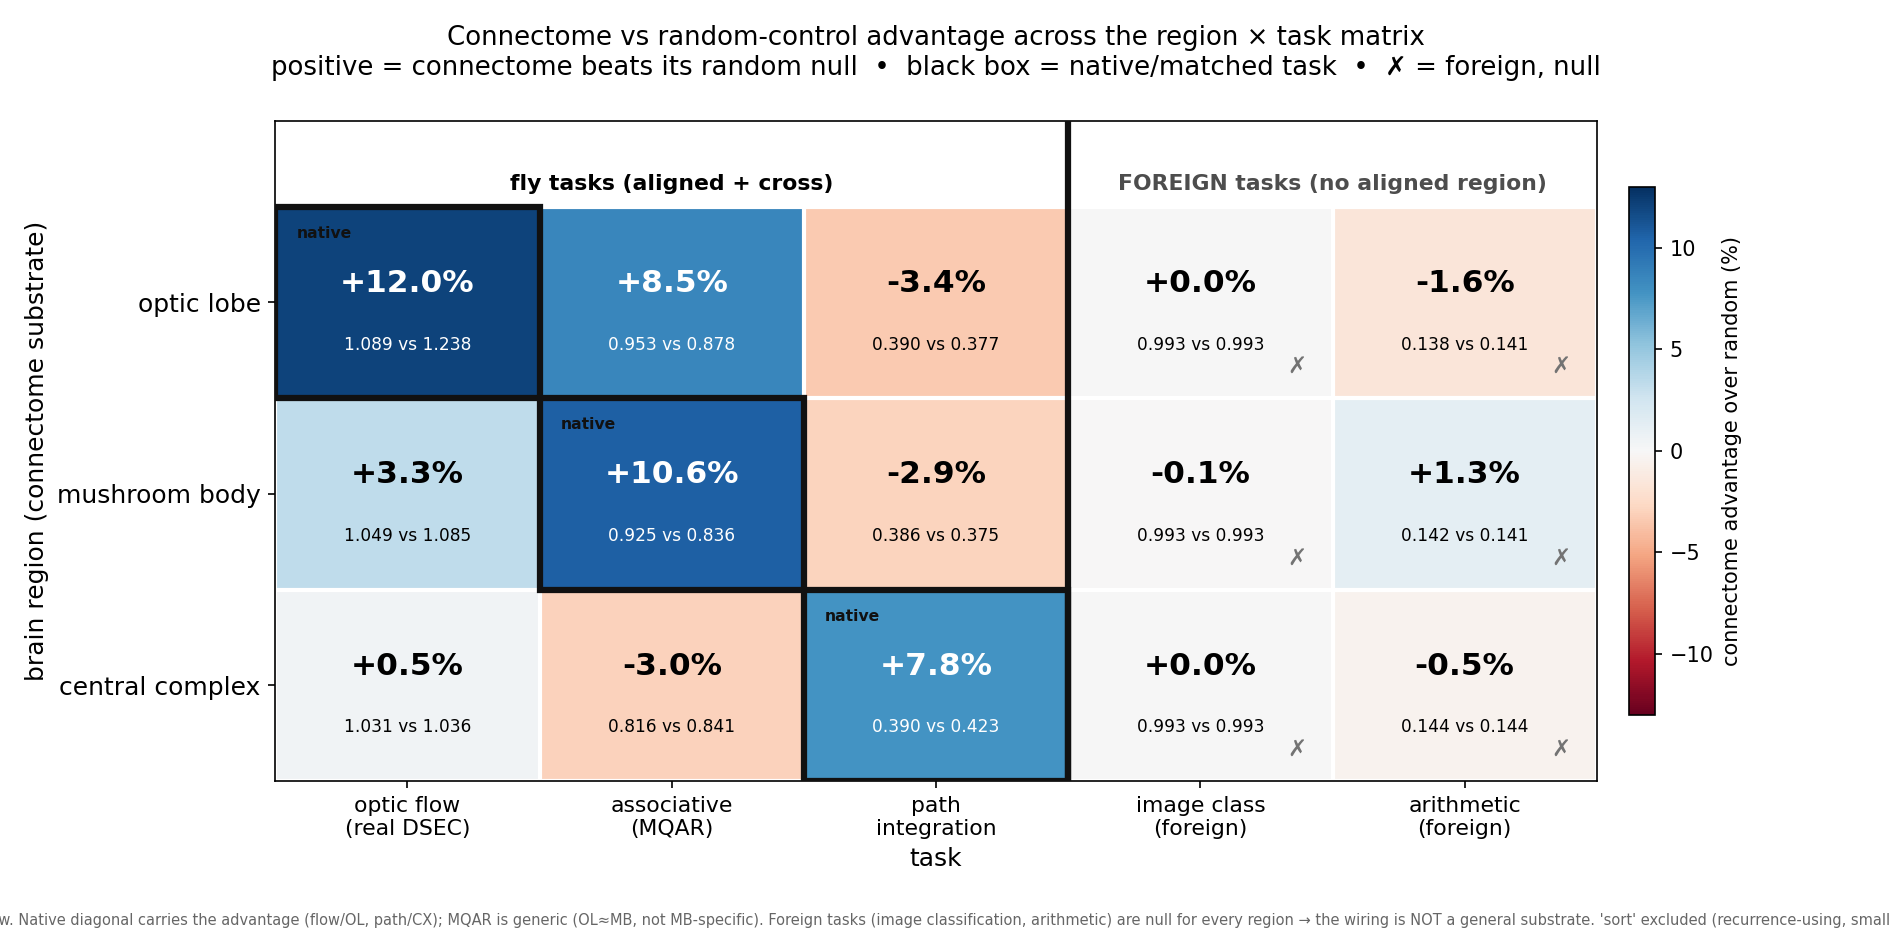
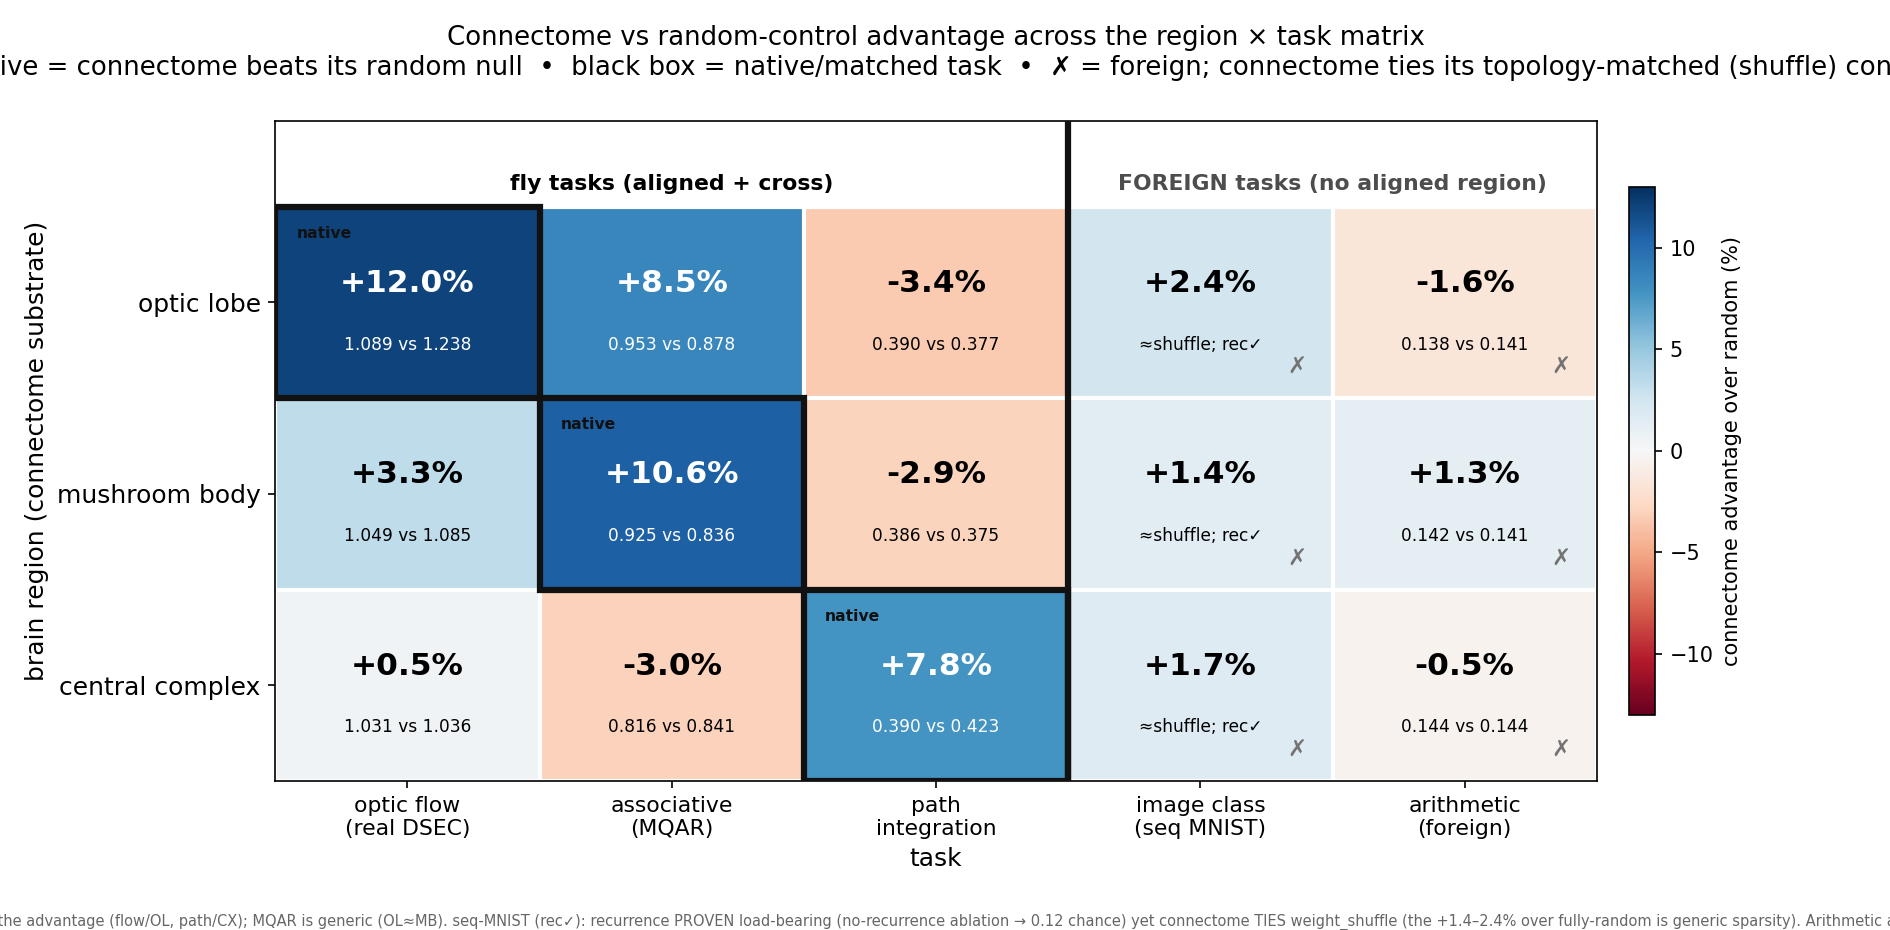
Heatmap: replace circular static-class cell with real sequential MNIST
seq-MNIST (28 rows fed one/step, digit read out after the last row) makes W_rec the sole
path -> recurrence PROVEN load-bearing (no_recurrence ablation collapses 0.96->0.12 chance;
wrec_grad 0.27-0.42). Connectome still TIES weight_shuffle in all 3 regions (MB/OL/CX),
edging only fully-random by +1.4-2.4% (generic structured sparsity). The non-circular foreign
null: real image classification, recurrence used, connectome's specific wiring buys nothing.

diff --git a/scripts/plot_region_task_heatmap.py b/scripts/plot_region_task_heatmap.py
@@ -17,7 +17,7 @@ OUT.mkdir(parents=True, exist_ok=True)
 
 REGIONS = ["optic lobe", "mushroom body", "central complex"]
 TASKS = ["optic flow\n(real DSEC)", "associative\n(MQAR)", "path\nintegration",
-         "image class\n(foreign)", "arithmetic\n(foreign)"]
+         "image class\n(seq MNIST)", "arithmetic\n(foreign)"]
 N_FLY = 3  # first 3 columns are fly tasks; the rest are foreign
 
 # (row=region, col): adv_pct, raw "conn vs rand", is_native
@@ -26,17 +26,17 @@ CELLS = {
     ("optic lobe", 0):    (12.0, "1.089 vs 1.238", True),   # native flow (real DSEC)
     ("optic lobe", 1):    (8.5,  "0.953 vs 0.878", False),  # OL->MQAR: off-diagonal yet ~= MB native (generic)
     ("optic lobe", 2):    (-3.4, "0.390 vs 0.377", False),
-    ("optic lobe", 3):    (0.0,  "0.993 vs 0.993", False),  # foreign: image classification
+    ("optic lobe", 3):    (2.4,  "≈shuffle; rec✓", False),   # seq-MNIST: ties shuffle (0.949/0.954); no_recur→0.12
     ("optic lobe", 4):    (-1.6, "0.138 vs 0.141", False),  # foreign: arithmetic (at chance)
     ("mushroom body", 0): (3.3,  "1.049 vs 1.085", False),
     ("mushroom body", 1): (10.6, "0.925 vs 0.836", True),   # native MQAR (but generic: OL ties it)
     ("mushroom body", 2): (-2.9, "0.386 vs 0.375", False),
-    ("mushroom body", 3): (-0.1, "0.993 vs 0.993", False),
+    ("mushroom body", 3): (1.4,  "≈shuffle; rec✓", False),  # seq-MNIST: ties shuffle (0.961/0.964); no_recur→0.12
     ("mushroom body", 4): (1.3,  "0.142 vs 0.141", False),
     ("central complex", 0): (0.5, "1.031 vs 1.036", False),
     ("central complex", 1): (-3.0, "0.816 vs 0.841", False),
     ("central complex", 2): (7.8, "0.390 vs 0.423", True),  # native path integration
-    ("central complex", 3): (0.0, "0.993 vs 0.993", False),
+    ("central complex", 3): (1.7, "≈shuffle; rec✓", False),  # seq-MNIST: ties shuffle (0.971/0.970); no_recur→0.12
     ("central complex", 4): (-0.5, "0.144 vs 0.144", False),
 }
 
@@ -73,14 +73,14 @@ ax.grid(which="minor", color="white", linewidth=2); ax.tick_params(which="minor"
 ax.set_xlabel("task", fontsize=12); ax.set_ylabel("brain region (connectome substrate)", fontsize=12)
 ax.set_ylim(nR - 0.5, -0.95)
 ax.set_title("Connectome vs random-control advantage across the region × task matrix\n"
-             "positive = connectome beats its random null  •  black box = native/matched task  •  ✗ = foreign, null",
+             "positive = connectome beats its random null  •  black box = native/matched task  •  ✗ = foreign; connectome ties its topology-matched (shuffle) control",
              fontsize=12.5, pad=22)
 cbar = fig.colorbar(im, ax=ax, shrink=0.8, pad=0.02)
 cbar.set_label("connectome advantage over random (%)", fontsize=10)
 fig.text(0.5, 0.005,
-         "Flow = REAL DSEC event-camera flow. Native diagonal carries the advantage (flow/OL, path/CX); MQAR is generic (OL≈MB, not MB-specific). "
-         "Foreign tasks (image classification, arithmetic) are null for every region → the wiring is NOT a general substrate. "
-         "'sort' excluded (recurrence-using, small generic residual). Flow/path 1 seed.",
+         "Flow = REAL DSEC event-camera flow. Native diagonal carries the advantage (flow/OL, path/CX); MQAR is generic (OL≈MB). "
+         "seq-MNIST (rec✓): recurrence PROVEN load-bearing (no-recurrence ablation → 0.12 chance) yet connectome TIES weight_shuffle "
+         "(the +1.4–2.4% over fully-random is generic sparsity). Arithmetic at chance. → wiring is NOT a general substrate. 'sort' excluded.",
          ha="center", fontsize=7.0, color="0.4")
 fig.tight_layout(rect=[0, 0.03, 1, 1])
 fig.savefig(OUT / "region_task_heatmap.png", dpi=150)

diff --git a/docs/results/region_task_matrix/README.md b/docs/results/region_task_matrix/README.md
@@ -27,19 +27,25 @@ uses **REAL DSEC event-camera flow** (synthetic flow doesn't discriminate by reg
   not biology**: subsampling OL to 14,025 neurons collapses its MQAR score 0.953 → 0.83 ≈ MB@14,025's
   0.80 (both ≪ full OL's 0.953). Associative learning is **generic structured-recurrence
   sample-efficiency** (~1.8× over random, region-agnostic), not mushroom-body alignment.
-- **Foreign tasks are null for every region (the new ✗ column):** image classification **±0.1%** and
-  arithmetic **within ±1.6%** of random across all three regions. The wiring buys **nothing** off the
-  fly's computational domain → **not a general substrate** (the claim this work argues against).
+- **Foreign tasks are null for every region (the ✗ column):** on **sequential MNIST** (real image
+  classification, 28 rows fed one per step, digit read out only after the last row) the connectome
+  **ties `weight_shuffle`** in all 3 regions (MB 0.961/0.964, OL 0.949/0.954, CX 0.971/0.970) — it
+  edges only *fully*-random by +1.4–2.4%, which is generic structured sparsity. Crucially this is
+  **not the T=1 circularity**: the recurrence is *proven* load-bearing — the `no_recurrence` ablation
+  (W_rec zeroed) **collapses to 0.12 ≈ chance** (−84 pts) and the connectome receives real gradient
+  (`wrec_grad` 0.27–0.42). So the wiring is genuinely *used* and still buys nothing wiring-specific.
+  Arithmetic (running-sum-mod-m) sits at chance for all models. → **not a general substrate.**
 
 **Bottom line:** the connectome is **not universal**. Its advantage is **region-specific for the
 sensorimotor tasks (flow/OL, path/CX)**, a **generic recurrence benefit** on associative/memory tasks
 (not MB-specific), and **absent** on non-recurrent / foreign tasks.
 
 ## Caveats (being honest)
-- **`static_class` (image classification) is partly null *by construction*:** it's a T=1 task, so the
-  recurrent matrix multiplies the zero initial state and is never used — connectome = random is
-  *guaranteed*, making this cell a **sanity check** (the harness doesn't leak) more than independent
-  evidence. It is reported straight, not oversold.
+- **The image-classification cell is now `seq_mnist`, not the old T=1 toy.** The earlier `static_class`
+  (T=1) was partly null *by construction* (the recurrent matrix multiplies the zero state → never
+  used). It was replaced by **sequential MNIST**, where the readout fires only after all 28 rows so
+  `W_rec` is the sole pathway — verified by the `no_recurrence` collapse and non-zero `wrec_grad`. The
+  result holds: connectome ties its topology-matched control even when recurrence is provably load-bearing.
 - **`arithmetic` (running-sum mod-m) sits at chance** (~1/7) for *all* models — nobody learned it in
   20 epochs, so it's a "wiring doesn't rescue a hard task" null, not "learned-but-no-edge."
 - **`sort` is excluded:** it's the one *learnable, recurrence-using* foreign task and shows a small
